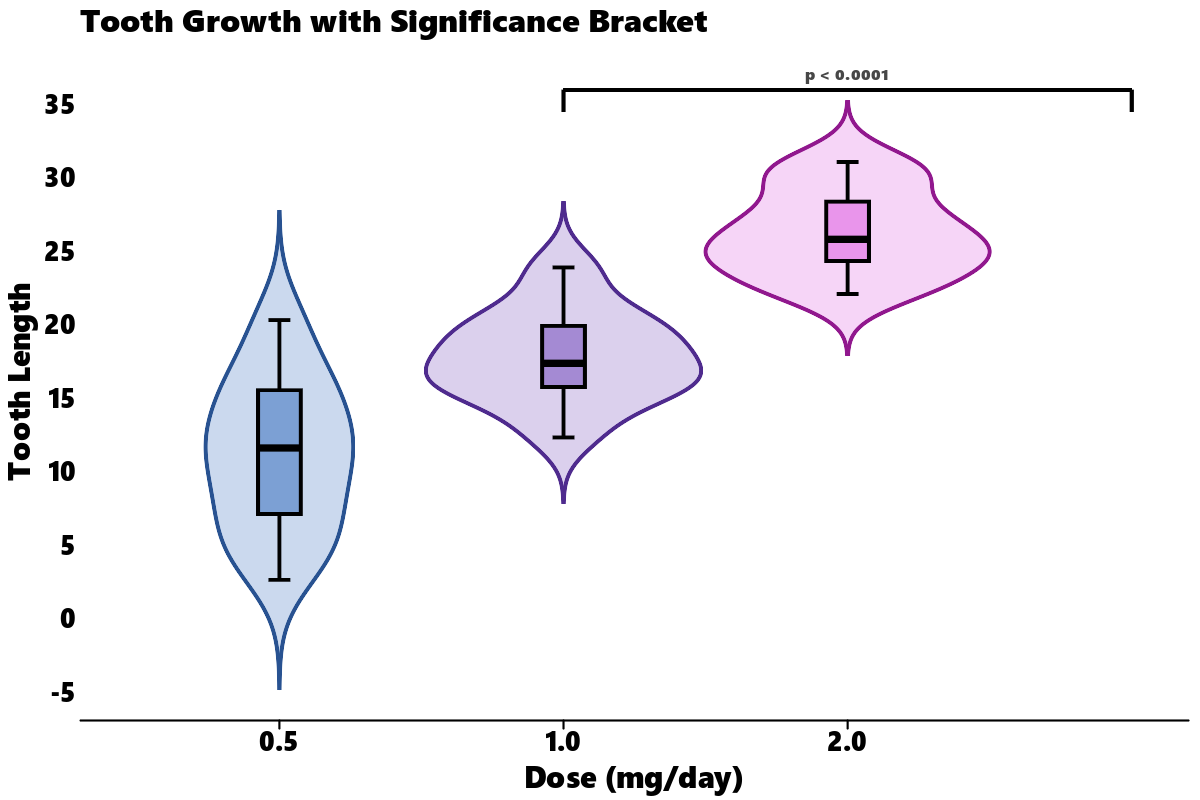
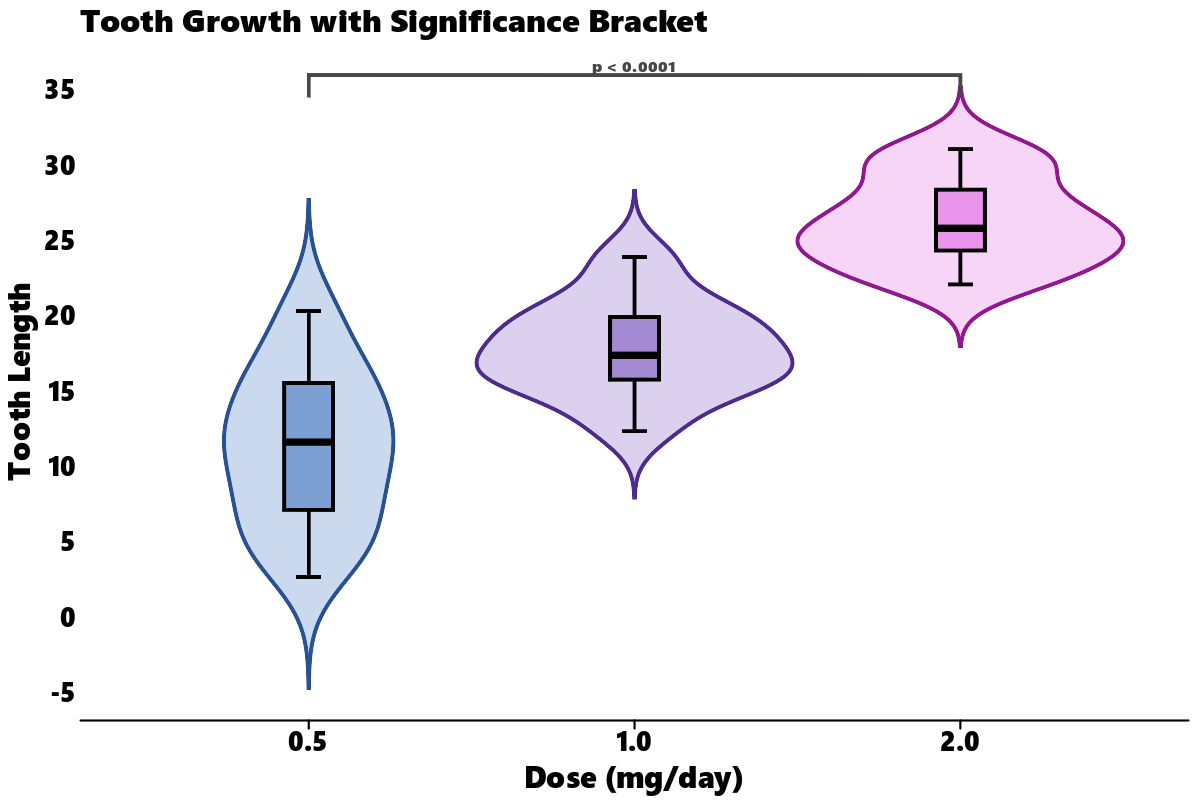
Deployed def2213 with MkDocs version: 1.6.1

diff --git a/examples/index.html b/examples/index.html
@@ -718,7 +718,7 @@
 <p><img alt="Dose Response Curve" src="../images/dose_response.png" /></p>
 <hr />
 <h2 id="2-violin-boxplot-with-significance-bracket">2. Violin &amp; Boxplot with Significance Bracket</h2>
-<p>This example mirrors the classic <code>ToothGrowth</code> plot from the R <code>ggprism</code> README. Since there is no direct equivalent of <code>add_pvalue</code> in python's <code>lets-plot</code>, we show how to cleanly add custom significance brackets manually using <code>geom_segment</code> and <code>geom_text</code>.</p>
+<p>This example mirrors the classic <code>ToothGrowth</code> plot from the R <code>ggprism</code> README. In Lets-Plot, we can use the native <code>geom_bracket()</code> to easily add significance brackets between categories.</p>
 <div class="highlight"><pre><span></span><code><a id="__codelineno-1-1" name="__codelineno-1-1" href="#__codelineno-1-1"></a><span class="kn">import</span><span class="w"> </span><span class="nn">numpy</span><span class="w"> </span><span class="k">as</span><span class="w"> </span><span class="nn">np</span>
 <a id="__codelineno-1-2" name="__codelineno-1-2" href="#__codelineno-1-2"></a><span class="kn">import</span><span class="w"> </span><span class="nn">pandas</span><span class="w"> </span><span class="k">as</span><span class="w"> </span><span class="nn">pd</span>
 <a id="__codelineno-1-3" name="__codelineno-1-3" href="#__codelineno-1-3"></a><span class="kn">from</span><span class="w"> </span><span class="nn">lets_plot</span><span class="w"> </span><span class="kn">import</span> <span class="o">*</span>
@@ -744,29 +744,28 @@
 <a id="__codelineno-1-23" name="__codelineno-1-23" href="#__codelineno-1-23"></a>        <span class="n">tg_rows</span><span class="o">.</span><span class="n">append</span><span class="p">({</span><span class="s2">&quot;len&quot;</span><span class="p">:</span> <span class="n">val</span><span class="p">,</span> <span class="s2">&quot;supp&quot;</span><span class="p">:</span> <span class="n">supp</span><span class="p">,</span> <span class="s2">&quot;dose&quot;</span><span class="p">:</span> <span class="nb">str</span><span class="p">(</span><span class="n">dose</span><span class="p">)})</span>
 <a id="__codelineno-1-24" name="__codelineno-1-24" href="#__codelineno-1-24"></a><span class="n">df_tg</span> <span class="o">=</span> <span class="n">pd</span><span class="o">.</span><span class="n">DataFrame</span><span class="p">(</span><span class="n">tg_rows</span><span class="p">)</span>
 <a id="__codelineno-1-25" name="__codelineno-1-25" href="#__codelineno-1-25"></a>
-<a id="__codelineno-1-26" name="__codelineno-1-26" href="#__codelineno-1-26"></a><span class="c1"># 2. Define significance bracket segments</span>
-<a id="__codelineno-1-27" name="__codelineno-1-27" href="#__codelineno-1-27"></a><span class="c1"># X-axis categories &quot;0.5&quot;, &quot;1.0&quot;, &quot;2.0&quot; map to numeric coordinates 1, 2, 3</span>
-<a id="__codelineno-1-28" name="__codelineno-1-28" href="#__codelineno-1-28"></a><span class="n">bracket_df</span> <span class="o">=</span> <span class="n">pd</span><span class="o">.</span><span class="n">DataFrame</span><span class="p">([</span>
-<a id="__codelineno-1-29" name="__codelineno-1-29" href="#__codelineno-1-29"></a>    <span class="p">{</span><span class="s2">&quot;x&quot;</span><span class="p">:</span> <span class="mf">1.0</span><span class="p">,</span> <span class="s2">&quot;xend&quot;</span><span class="p">:</span> <span class="mf">3.0</span><span class="p">,</span> <span class="s2">&quot;y&quot;</span><span class="p">:</span> <span class="mf">36.0</span><span class="p">,</span> <span class="s2">&quot;yend&quot;</span><span class="p">:</span> <span class="mf">36.0</span><span class="p">},</span> <span class="c1"># top bar</span>
-<a id="__codelineno-1-30" name="__codelineno-1-30" href="#__codelineno-1-30"></a>    <span class="p">{</span><span class="s2">&quot;x&quot;</span><span class="p">:</span> <span class="mf">1.0</span><span class="p">,</span> <span class="s2">&quot;xend&quot;</span><span class="p">:</span> <span class="mf">1.0</span><span class="p">,</span> <span class="s2">&quot;y&quot;</span><span class="p">:</span> <span class="mf">36.0</span><span class="p">,</span> <span class="s2">&quot;yend&quot;</span><span class="p">:</span> <span class="mf">34.5</span><span class="p">},</span> <span class="c1"># left tick</span>
-<a id="__codelineno-1-31" name="__codelineno-1-31" href="#__codelineno-1-31"></a>    <span class="p">{</span><span class="s2">&quot;x&quot;</span><span class="p">:</span> <span class="mf">3.0</span><span class="p">,</span> <span class="s2">&quot;xend&quot;</span><span class="p">:</span> <span class="mf">3.0</span><span class="p">,</span> <span class="s2">&quot;y&quot;</span><span class="p">:</span> <span class="mf">36.0</span><span class="p">,</span> <span class="s2">&quot;yend&quot;</span><span class="p">:</span> <span class="mf">34.5</span><span class="p">},</span> <span class="c1"># right tick</span>
-<a id="__codelineno-1-32" name="__codelineno-1-32" href="#__codelineno-1-32"></a><span class="p">])</span>
+<a id="__codelineno-1-26" name="__codelineno-1-26" href="#__codelineno-1-26"></a><span class="c1"># 2. Define significance bracket data</span>
+<a id="__codelineno-1-27" name="__codelineno-1-27" href="#__codelineno-1-27"></a><span class="n">bracket_data</span> <span class="o">=</span> <span class="p">{</span>
+<a id="__codelineno-1-28" name="__codelineno-1-28" href="#__codelineno-1-28"></a>    <span class="s2">&quot;xmin&quot;</span><span class="p">:</span> <span class="p">[</span><span class="s2">&quot;0.5&quot;</span><span class="p">],</span>
+<a id="__codelineno-1-29" name="__codelineno-1-29" href="#__codelineno-1-29"></a>    <span class="s2">&quot;xmax&quot;</span><span class="p">:</span> <span class="p">[</span><span class="s2">&quot;2.0&quot;</span><span class="p">],</span>
+<a id="__codelineno-1-30" name="__codelineno-1-30" href="#__codelineno-1-30"></a>    <span class="s2">&quot;y&quot;</span><span class="p">:</span> <span class="p">[</span><span class="mf">36.0</span><span class="p">],</span>
+<a id="__codelineno-1-31" name="__codelineno-1-31" href="#__codelineno-1-31"></a>    <span class="s2">&quot;label&quot;</span><span class="p">:</span> <span class="p">[</span><span class="s2">&quot;p &lt; 0.0001&quot;</span><span class="p">]</span>
+<a id="__codelineno-1-32" name="__codelineno-1-32" href="#__codelineno-1-32"></a><span class="p">}</span>
 <a id="__codelineno-1-33" name="__codelineno-1-33" href="#__codelineno-1-33"></a>
 <a id="__codelineno-1-34" name="__codelineno-1-34" href="#__codelineno-1-34"></a><span class="c1"># 3. Build plot</span>
 <a id="__codelineno-1-35" name="__codelineno-1-35" href="#__codelineno-1-35"></a><span class="n">plot</span> <span class="o">=</span> <span class="p">(</span>
 <a id="__codelineno-1-36" name="__codelineno-1-36" href="#__codelineno-1-36"></a>    <span class="n">ggplot</span><span class="p">(</span><span class="n">df_tg</span><span class="p">,</span> <span class="n">aes</span><span class="p">(</span><span class="n">x</span><span class="o">=</span><span class="s2">&quot;dose&quot;</span><span class="p">,</span> <span class="n">y</span><span class="o">=</span><span class="s2">&quot;len&quot;</span><span class="p">))</span>
 <a id="__codelineno-1-37" name="__codelineno-1-37" href="#__codelineno-1-37"></a>    <span class="o">+</span> <span class="n">geom_violin</span><span class="p">(</span><span class="n">aes</span><span class="p">(</span><span class="n">color</span><span class="o">=</span><span class="s2">&quot;dose&quot;</span><span class="p">,</span> <span class="n">fill</span><span class="o">=</span><span class="s2">&quot;dose&quot;</span><span class="p">),</span> <span class="n">trim</span><span class="o">=</span><span class="kc">False</span><span class="p">,</span> <span class="n">alpha</span><span class="o">=</span><span class="mf">0.4</span><span class="p">)</span>
 <a id="__codelineno-1-38" name="__codelineno-1-38" href="#__codelineno-1-38"></a>    <span class="o">+</span> <span class="n">geom_boxplot</span><span class="p">(</span><span class="n">aes</span><span class="p">(</span><span class="n">fill</span><span class="o">=</span><span class="s2">&quot;dose&quot;</span><span class="p">),</span> <span class="n">width</span><span class="o">=</span><span class="mf">0.15</span><span class="p">,</span> <span class="n">color</span><span class="o">=</span><span class="s2">&quot;black&quot;</span><span class="p">,</span> <span class="n">show_legend</span><span class="o">=</span><span class="kc">False</span><span class="p">)</span>
-<a id="__codelineno-1-39" name="__codelineno-1-39" href="#__codelineno-1-39"></a>    <span class="o">+</span> <span class="n">geom_segment</span><span class="p">(</span><span class="n">aes</span><span class="p">(</span><span class="n">x</span><span class="o">=</span><span class="s2">&quot;x&quot;</span><span class="p">,</span> <span class="n">xend</span><span class="o">=</span><span class="s2">&quot;xend&quot;</span><span class="p">,</span> <span class="n">y</span><span class="o">=</span><span class="s2">&quot;y&quot;</span><span class="p">,</span> <span class="n">yend</span><span class="o">=</span><span class="s2">&quot;yend&quot;</span><span class="p">),</span> <span class="n">data</span><span class="o">=</span><span class="n">bracket_df</span><span class="p">,</span> <span class="n">color</span><span class="o">=</span><span class="s2">&quot;black&quot;</span><span class="p">,</span> <span class="n">size</span><span class="o">=</span><span class="mf">0.8</span><span class="p">)</span>
-<a id="__codelineno-1-40" name="__codelineno-1-40" href="#__codelineno-1-40"></a>    <span class="o">+</span> <span class="n">geom_text</span><span class="p">(</span><span class="n">x</span><span class="o">=</span><span class="mf">2.0</span><span class="p">,</span> <span class="n">y</span><span class="o">=</span><span class="mf">37.0</span><span class="p">,</span> <span class="n">label</span><span class="o">=</span><span class="s2">&quot;p &lt; 0.0001&quot;</span><span class="p">,</span> <span class="n">size</span><span class="o">=</span><span class="mi">4</span><span class="p">,</span> <span class="n">fontface</span><span class="o">=</span><span class="s2">&quot;bold&quot;</span><span class="p">)</span>
-<a id="__codelineno-1-41" name="__codelineno-1-41" href="#__codelineno-1-41"></a>    <span class="o">+</span> <span class="n">scale_color_prism</span><span class="p">(</span><span class="s2">&quot;floral&quot;</span><span class="p">)</span>
-<a id="__codelineno-1-42" name="__codelineno-1-42" href="#__codelineno-1-42"></a>    <span class="o">+</span> <span class="n">scale_fill_prism</span><span class="p">(</span><span class="s2">&quot;floral&quot;</span><span class="p">)</span>
-<a id="__codelineno-1-43" name="__codelineno-1-43" href="#__codelineno-1-43"></a>    <span class="o">+</span> <span class="n">theme_prism</span><span class="p">(</span><span class="n">palette</span><span class="o">=</span><span class="s2">&quot;floral&quot;</span><span class="p">,</span> <span class="n">base_size</span><span class="o">=</span><span class="mi">14</span><span class="p">)</span>
-<a id="__codelineno-1-44" name="__codelineno-1-44" href="#__codelineno-1-44"></a>    <span class="o">+</span> <span class="n">theme</span><span class="p">(</span><span class="n">legend_position</span><span class="o">=</span><span class="s2">&quot;none&quot;</span><span class="p">)</span>
-<a id="__codelineno-1-45" name="__codelineno-1-45" href="#__codelineno-1-45"></a>    <span class="o">+</span> <span class="n">ggtitle</span><span class="p">(</span><span class="s2">&quot;Tooth Growth with Significance Bracket&quot;</span><span class="p">)</span>
-<a id="__codelineno-1-46" name="__codelineno-1-46" href="#__codelineno-1-46"></a>    <span class="o">+</span> <span class="n">xlab</span><span class="p">(</span><span class="s2">&quot;Dose (mg/day)&quot;</span><span class="p">)</span>
-<a id="__codelineno-1-47" name="__codelineno-1-47" href="#__codelineno-1-47"></a>    <span class="o">+</span> <span class="n">ylab</span><span class="p">(</span><span class="s2">&quot;Tooth Length&quot;</span><span class="p">)</span>
-<a id="__codelineno-1-48" name="__codelineno-1-48" href="#__codelineno-1-48"></a><span class="p">)</span>
+<a id="__codelineno-1-39" name="__codelineno-1-39" href="#__codelineno-1-39"></a>    <span class="o">+</span> <span class="n">geom_bracket</span><span class="p">(</span><span class="n">aes</span><span class="p">(</span><span class="n">xmin</span><span class="o">=</span><span class="s2">&quot;xmin&quot;</span><span class="p">,</span> <span class="n">xmax</span><span class="o">=</span><span class="s2">&quot;xmax&quot;</span><span class="p">,</span> <span class="n">y</span><span class="o">=</span><span class="s2">&quot;y&quot;</span><span class="p">,</span> <span class="n">label</span><span class="o">=</span><span class="s2">&quot;label&quot;</span><span class="p">),</span> <span class="n">data</span><span class="o">=</span><span class="n">bracket_data</span><span class="p">,</span> <span class="n">size</span><span class="o">=</span><span class="mi">4</span><span class="p">,</span> <span class="n">fontface</span><span class="o">=</span><span class="s2">&quot;bold&quot;</span><span class="p">)</span>
+<a id="__codelineno-1-40" name="__codelineno-1-40" href="#__codelineno-1-40"></a>    <span class="o">+</span> <span class="n">scale_color_prism</span><span class="p">(</span><span class="s2">&quot;floral&quot;</span><span class="p">)</span>
+<a id="__codelineno-1-41" name="__codelineno-1-41" href="#__codelineno-1-41"></a>    <span class="o">+</span> <span class="n">scale_fill_prism</span><span class="p">(</span><span class="s2">&quot;floral&quot;</span><span class="p">)</span>
+<a id="__codelineno-1-42" name="__codelineno-1-42" href="#__codelineno-1-42"></a>    <span class="o">+</span> <span class="n">theme_prism</span><span class="p">(</span><span class="n">palette</span><span class="o">=</span><span class="s2">&quot;floral&quot;</span><span class="p">,</span> <span class="n">base_size</span><span class="o">=</span><span class="mi">14</span><span class="p">)</span>
+<a id="__codelineno-1-43" name="__codelineno-1-43" href="#__codelineno-1-43"></a>    <span class="o">+</span> <span class="n">theme</span><span class="p">(</span><span class="n">legend_position</span><span class="o">=</span><span class="s2">&quot;none&quot;</span><span class="p">)</span>
+<a id="__codelineno-1-44" name="__codelineno-1-44" href="#__codelineno-1-44"></a>    <span class="o">+</span> <span class="n">ggtitle</span><span class="p">(</span><span class="s2">&quot;Tooth Growth with Significance Bracket&quot;</span><span class="p">)</span>
+<a id="__codelineno-1-45" name="__codelineno-1-45" href="#__codelineno-1-45"></a>    <span class="o">+</span> <span class="n">xlab</span><span class="p">(</span><span class="s2">&quot;Dose (mg/day)&quot;</span><span class="p">)</span>
+<a id="__codelineno-1-46" name="__codelineno-1-46" href="#__codelineno-1-46"></a>    <span class="o">+</span> <span class="n">ylab</span><span class="p">(</span><span class="s2">&quot;Tooth Length&quot;</span><span class="p">)</span>
+<a id="__codelineno-1-47" name="__codelineno-1-47" href="#__codelineno-1-47"></a><span class="p">)</span>
 </code></pre></div>
 <p><img alt="Tooth Growth" src="../images/tooth_growth.png" /></p>
 <hr />